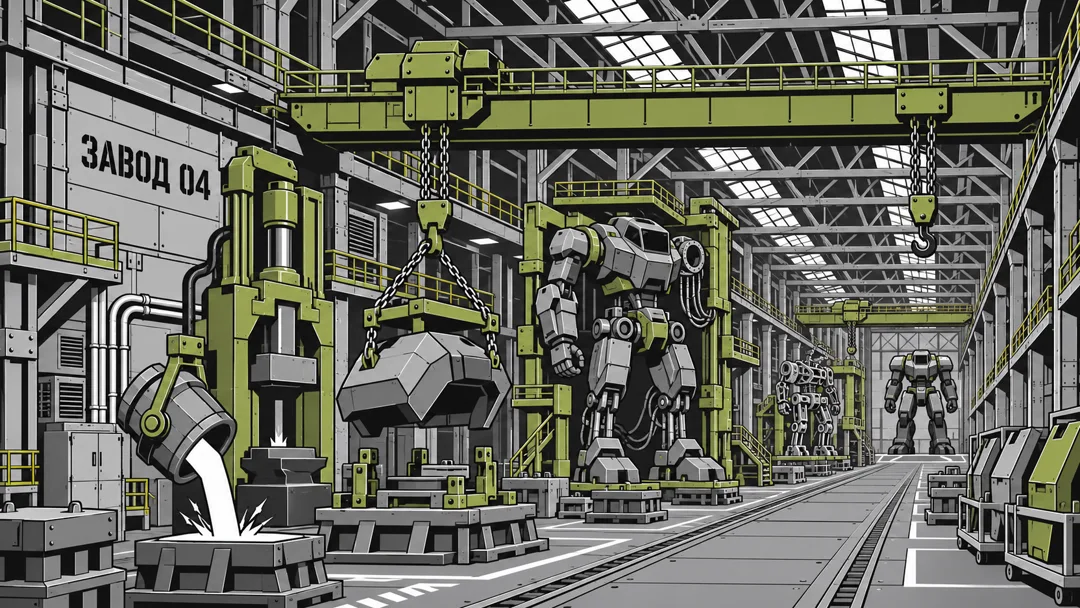
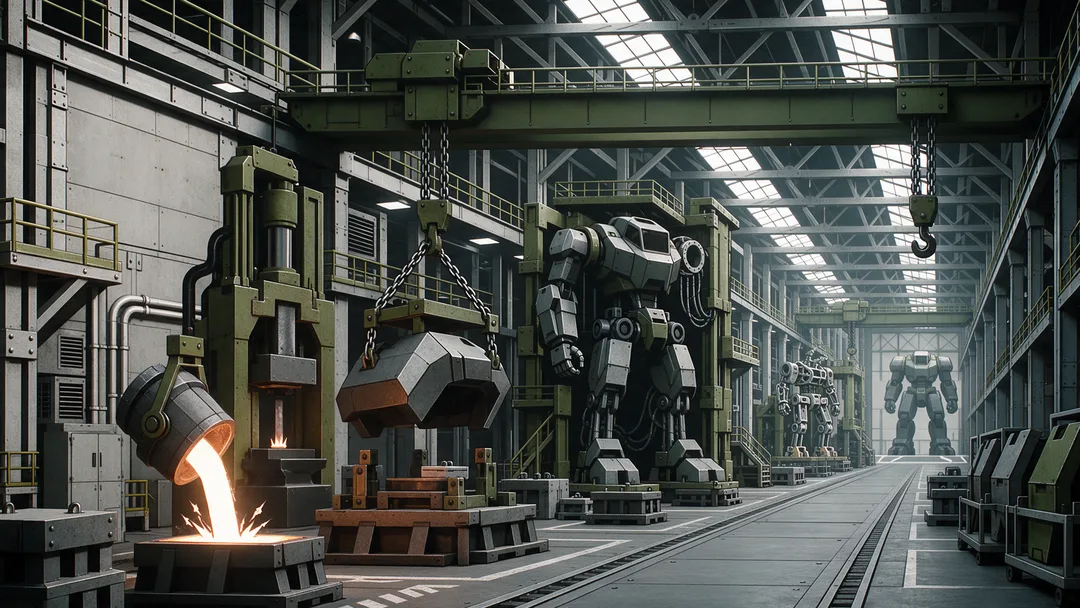
Update the Lore, home and product pictures to live action
27 pictures are replaced with live-action stills from Higgsfield at the
same file names and pixel sizes: the Lore hero, districts, story
chapters and cast portraits (FL4T included), the home page's Lore
teaser, and the photo sets for the Amber-Ring Helmet, Reflective-Seam
Jacket and Yellow-Panel Shell.

Sasha's three pictures (her profile, Proof and B2B) load from their
Higgsfield small copies and are not stored in the repo. Her profile and
tab show only the first face of a four-face strip, cropped so her chin
stays in view at every size. Alt texts on the Lore and home pages
describe the new pictures. L0WK3Y's portrait, the Laced Hooded Coat
photos and the city map are unchanged.

diff --git a/lore.html b/lore.html
@@ -11,7 +11,7 @@
   <meta property="og:description" content="Explore the last city, meet its crews and follow the pirate signal.">
   <meta property="og:image" content="https://arthurdnb.github.io/fu7ure-preview/media/lore/hero-city.webp">
   <link rel="stylesheet" href="styles.css">
-  <link rel="stylesheet" href="lore.css">
+  <link rel="stylesheet" href="lore.css?v=live-cast">
   <script defer src="lore.js"></script>
 </head>
 <body class="lore-page">
@@ -65,7 +65,7 @@
         </figure>
         <div class="place-panels">
           <article id="place-deck" class="place-panel" data-panel data-color="yellow">
-            <img src="media/lore/deck.webp" alt="Yellow-trimmed racing frames line the launch deck above the clouds" width="1080" height="608" loading="lazy" decoding="async">
+            <img src="media/lore/deck.webp" alt="Grey and yellow racing frames parked along the launch deck above the clouds" width="1080" height="608" loading="lazy" decoding="async">
             <div class="place-copy">
               <p class="lore-meta">H4J1ME</p>
               <h3>The Deck</h3>
@@ -74,7 +74,7 @@
             </div>
           </article>
           <article id="place-grid" class="place-panel" data-panel data-color="silver">
-            <img src="media/lore/grid.webp" alt="A clock stands at the far end of a white hall of identical columns" width="1080" height="608" loading="lazy" decoding="async">
+            <img src="media/lore/grid.webp" alt="A single clock at the end of a long dark hall of black columns" width="1080" height="608" loading="lazy" decoding="async">
             <div class="place-copy">
               <p class="lore-meta">8888</p>
               <h3>The Grid</h3>
@@ -83,7 +83,7 @@
             </div>
           </article>
           <article id="place-circuit" class="place-panel" data-panel data-color="amber">
-            <img src="media/lore/circuit.webp" alt="A circular arena with gates, tiered seating and a DJ platform at the centre" width="1080" height="608" loading="lazy" decoding="async">
+            <img src="media/lore/circuit.webp" alt="The round Circuit arena under a glass dome, with gates and a platform at the centre" width="1080" height="608" loading="lazy" decoding="async">
             <div class="place-copy">
               <p class="lore-meta">Shared arena</p>
               <h3>The Circuit</h3>
@@ -92,7 +92,7 @@
             </div>
           </article>
           <article id="place-yard" class="place-panel" data-panel data-color="orange">
-            <img src="media/lore/yard.webp" alt="An orange-marked court under an overpass, ringed by speaker stacks" width="1080" height="608" loading="lazy" decoding="async">
+            <img src="media/lore/yard.webp" alt="The Yard’s empty stage: speaker stacks and orange-marked containers under steel trusses" width="1080" height="608" loading="lazy" decoding="async">
             <div class="place-copy">
               <p class="lore-meta">ROLL3RZ</p>
               <h3>The Yard</h3>
@@ -101,7 +101,7 @@
             </div>
           </article>
           <article id="place-factory" class="place-panel" data-panel data-color="olive">
-            <img src="media/lore/factory.webp" alt="Olive overhead machinery and steel racing frames in Factory 04" width="1080" height="608" loading="lazy" decoding="async">
+            <img src="media/lore/factory.webp" alt="Molten metal pours beside olive machinery and parked racing frames in Factory 04" width="1080" height="608" loading="lazy" decoding="async">
             <div class="place-copy">
               <p class="lore-meta">МОЛОТ</p>
               <h3>Factory 04</h3>
@@ -110,7 +110,7 @@
             </div>
           </article>
           <article id="place-archive" class="place-panel" data-panel data-color="violet">
-            <img src="media/lore/archive.webp" alt="Purple light runs through gothic arches lined with speakers and old machines" width="1080" height="608" loading="lazy" decoding="async">
+            <img src="media/lore/archive.webp" alt="Purple light beams through gothic arches lined with speakers and old machines" width="1080" height="608" loading="lazy" decoding="async">
             <div class="place-copy">
               <p class="lore-meta">R4V3NS</p>
               <h3>The Archive</h3>
@@ -143,7 +143,7 @@
         </header>
         <div class="cast-tabs" data-tabs aria-label="Characters" hidden>
             <button type="button" data-target="cast-r2" data-color="amber"><img src="media/lore/cast-r2.webp" alt="" width="496" height="386" loading="lazy" decoding="async"><span>R2</span></button>
-            <button type="button" data-target="cast-sasha" data-color="olive"><img src="media/lore/cast-sasha.webp" alt="" width="496" height="386" loading="lazy" decoding="async"><span>С4Ш4</span></button>
+            <button type="button" data-target="cast-sasha" data-color="olive"><span class="face-strip" aria-hidden="true"><img src="https://d8j0ntlcm91z4.cloudfront.net/user_3Lx8TF1xeDb8eYoPMa2K0YaqmD4/hf_20261124_012306_e52cd133-d530-4766-a3be-2ca4c582b22d_min.webp" alt="" loading="lazy" decoding="async"></span><span>С4Ш4</span></button>
             <button type="button" data-target="cast-tsubasa" data-color="yellow"><img src="media/lore/cast-tsubasa.webp" alt="" width="496" height="386" loading="lazy" decoding="async"><span>TSUB4S4</span></button>
             <button type="button" data-target="cast-quant" data-color="silver"><img src="media/lore/cast-quant.webp" alt="" width="496" height="386" loading="lazy" decoding="async"><span>QU4NT</span></button>
             <button type="button" data-target="cast-vesper" data-color="violet"><img src="media/lore/cast-vesper.webp" alt="" width="496" height="386" loading="lazy" decoding="async"><span>V3SP3R</span></button>
@@ -151,7 +151,7 @@
             <button type="button" data-target="cast-flat" data-color="silver"><img src="media/lore/cast-flat.webp" alt="" width="496" height="386" loading="lazy" decoding="async"><span>FL4T</span></button>
         </div>
         <article id="cast-r2" class="cast-panel" data-panel data-color="amber">
-          <figure class="cast-picture"><img src="media/lore/cast-r2.webp" alt="R2’s black helmet with two swept antennae and amber headphone rings" width="496" height="386" loading="lazy" decoding="async"></figure>
+          <figure class="cast-picture"><img src="media/lore/cast-r2.webp" alt="R2’s black helmet with swept fins and a ring of amber lights" width="496" height="386" loading="lazy" decoding="async"></figure>
           <div class="cast-copy">
             <img class="maker-mark" src="media/marks/r2-pin-stack-r1.svg" alt="R2" width="210" height="48" loading="lazy">
             <p class="lore-meta">Independent DJ and pilot</p>
@@ -167,7 +167,7 @@
           </div>
         </article>
         <article id="cast-sasha" class="cast-panel" data-panel data-color="olive">
-          <figure class="cast-picture"><img src="media/lore/cast-sasha.webp" alt="Sasha with dark wavy hair and her black and olive MOLOT collar" width="496" height="386" loading="lazy" decoding="async"></figure>
+          <figure class="cast-picture face-strip"><img src="https://d8j0ntlcm91z4.cloudfront.net/user_3Lx8TF1xeDb8eYoPMa2K0YaqmD4/hf_20261124_012306_e52cd133-d530-4766-a3be-2ca4c582b22d_min.webp" alt="Sasha with a silver asymmetric bob and silver eyes" loading="lazy" decoding="async"></figure>
           <div class="cast-copy">
             <img class="maker-mark" src="media/marks/molot-coupler-r1.svg" alt="МОЛОТ" width="210" height="48" loading="lazy">
             <p class="lore-meta">Factory 04 proof-master</p>
@@ -184,7 +184,7 @@
           </div>
         </article>
         <article id="cast-tsubasa" class="cast-panel" data-panel data-color="yellow">
-          <figure class="cast-picture"><img src="media/lore/cast-tsubasa.webp" alt="Tsubasa with a yellow streak in her dark bob and a pilot headset" width="496" height="386" loading="lazy" decoding="async"></figure>
+          <figure class="cast-picture"><img src="media/lore/cast-tsubasa.webp" alt="TSUB4S4 with a yellow streak in her black bob" width="496" height="386" loading="lazy" decoding="async"></figure>
           <div class="cast-copy">
             <img class="maker-mark" src="media/marks/h4j1me-pole-position-r1.svg" alt="H4J1ME" width="210" height="48" loading="lazy">
             <p class="lore-meta">H4J1ME racer · No. 07</p>
@@ -201,7 +201,7 @@
           </div>
         </article>
         <article id="cast-quant" class="cast-panel" data-panel data-color="silver">
-          <figure class="cast-picture"><img src="media/lore/cast-quant.webp" alt="QU4NT with a shaved head, a clear wraparound visor and a black Drawbridge jacket" width="496" height="386" loading="lazy" decoding="async"></figure>
+          <figure class="cast-picture"><img src="media/lore/cast-quant.webp" alt="QU4NT with a shaved head, a clear wraparound visor and a black hooded jacket" width="496" height="386" loading="lazy" decoding="async"></figure>
           <div class="cast-copy">
             <img class="maker-mark" src="media/marks/8888-faction-01-wordmark.svg" alt="8888" width="210" height="48" loading="lazy">
             <p class="lore-meta">Keeper of the city clock</p>
@@ -218,7 +218,7 @@
           </div>
         </article>
         <article id="cast-vesper" class="cast-panel" data-panel data-color="violet">
-          <figure class="cast-picture"><img src="media/lore/cast-vesper.webp" alt="V3SP3R in a black hood, violet goggles and a respirator" width="496" height="386" loading="lazy" decoding="async"></figure>
+          <figure class="cast-picture"><img src="media/lore/cast-vesper.webp" alt="V3SP3R in a black hood, violet round glasses and a black face mask" width="496" height="386" loading="lazy" decoding="async"></figure>
           <div class="cast-copy">
             <img class="maker-mark" src="media/marks/r4v3ns-faction-03-v8-wordmark.svg" alt="R4V3NS" width="210" height="48" loading="lazy">
             <p class="lore-meta">Keeper of The Archive</p>
@@ -252,7 +252,7 @@
           </div>
         </article>
         <article id="cast-flat" class="cast-panel" data-panel data-color="silver">
-          <figure class="cast-picture"><img src="media/lore/cast-flat.webp" alt="Illustration of FL4T in a plain grey uniform holding a noise meter and clipboard" width="496" height="386" loading="lazy" decoding="async"></figure>
+          <figure class="cast-picture"><img src="media/lore/cast-flat.webp" alt="FL4T with side-parted hair, a headset and a grey high-collar uniform" width="496" height="386" loading="lazy" decoding="async"></figure>
           <div class="cast-copy">
             <p class="plain-mark">M0N0</p>
             <p class="lore-meta">M0N0 officer</p>
@@ -287,7 +287,7 @@
         </div>
         <div class="story-main">
           <article id="story-signal" class="story-panel" data-panel>
-            <img src="media/lore/story-signal.webp" alt="R2 broadcasts from a rooftop radio rig in the rain" width="1240" height="698" loading="lazy" decoding="async">
+            <img src="media/lore/story-signal.webp" alt="R2 at a rooftop radio rig in the rain, a black jacket under his hands sending out an amber signal" width="1240" height="698" loading="lazy" decoding="async">
             <div class="story-copy">
               <p class="lore-meta">Teaser <span aria-hidden="true">/</span> R2</p>
               <h3>Signal Found</h3>
@@ -296,7 +296,7 @@
             </div>
           </article>
           <article id="story-start" class="story-panel" data-panel>
-            <img src="media/lore/story-start.webp" alt="TSUB4S4 examines an empty cockpit while FL4T holds a clipboard" width="1240" height="698" loading="lazy" decoding="async">
+            <img src="media/lore/story-start.webp" alt="TSUB4S4 leans into an open cockpit while FL4T gestures to it, clipboard in hand" width="1240" height="698" loading="lazy" decoding="async">
             <div class="story-copy">
               <p class="lore-meta">Chapter 1 <span aria-hidden="true">/</span> H4J1ME · The Deck</p>
               <h3>Start Signal</h3>
@@ -305,7 +305,7 @@
             </div>
           </article>
           <article id="story-four" class="story-panel" data-panel>
-            <img src="media/lore/story-four.webp" alt="QU4NT studies a wall of district clocks in The Grid" width="1240" height="698" loading="lazy" decoding="async">
+            <img src="media/lore/story-four.webp" alt="QU4NT studies a wall of clocks in a white hall" width="1240" height="698" loading="lazy" decoding="async">
             <div class="story-copy">
               <p class="lore-meta">Chapter 2 <span aria-hidden="true">/</span> 8888 · The Grid</p>
               <h3>Four to the Floor</h3>
@@ -314,7 +314,7 @@
             </div>
           </article>
           <article id="story-remembers" class="story-panel" data-panel>
-            <img src="media/lore/story-remembers.webp" alt="V3SP3R plays an old recording under purple light in The Archive" width="1240" height="698" loading="lazy" decoding="async">
+            <img src="media/lore/story-remembers.webp" alt="V3SP3R threads an old tape under purple light while a dancing crowd glows overhead" width="1240" height="698" loading="lazy" decoding="async">
             <div class="story-copy">
               <p class="lore-meta">Chapter 3 <span aria-hidden="true">/</span> R4V3NS · The Archive</p>
               <h3>What the Archive Remembers</h3>
@@ -323,7 +323,7 @@
             </div>
           </article>
           <article id="story-proof" class="story-panel" data-panel>
-            <img src="media/lore/story-proof.webp" alt="Sasha looks at a foundry order held by FL4T" width="1240" height="698" loading="lazy" decoding="async">
+            <img src="https://d8j0ntlcm91z4.cloudfront.net/user_3Lx8TF1xeDb8eYoPMa2K0YaqmD4/hf_20261124_025944_e517b3e3-3a0a-4813-a324-caf2f89fe259_min.webp" alt="Sasha stamps a foundry order handed over by FL4T, with racing frames behind them" width="1240" height="698" loading="lazy" decoding="async">
             <div class="story-copy">
               <p class="lore-meta">Chapter 4 <span aria-hidden="true">/</span> МОЛОТ · Factory 04</p>
               <h3>Proof</h3>
@@ -332,7 +332,7 @@
             </div>
           </article>
           <article id="story-licence" class="story-panel" data-panel>
-            <img src="media/lore/story-licence.webp" alt="L0WK3Y looks over the licence at the pirate station" width="1240" height="698" loading="lazy" decoding="async">
+            <img src="media/lore/story-licence.webp" alt="L0WK3Y signs the licence for FL4T at the pirate station in the rain" width="1240" height="698" loading="lazy" decoding="async">
             <div class="story-copy">
               <p class="lore-meta">Chapter 5 <span aria-hidden="true">/</span> ROLL3RZ · The Yard</p>
               <h3>Licence</h3>
@@ -341,7 +341,7 @@
             </div>
           </article>
           <article id="story-b2b" class="story-panel" data-panel>
-            <img src="media/lore/story-b2b.webp" alt="The DJs and all five crowds come together in The Circuit" width="1240" height="698" loading="lazy" decoding="async">
+            <img src="https://d8j0ntlcm91z4.cloudfront.net/user_3Lx8TF1xeDb8eYoPMa2K0YaqmD4/hf_20261124_025756_0ee2bb1f-e8ed-4d97-8191-7cae84321b21_min.webp" alt="QU4NT, Sasha, R2, TSUB4S4, V3SP3R and L0WK3Y play back to back above a packed Circuit crowd" width="1240" height="698" loading="lazy" decoding="async">
             <div class="story-copy">
               <p class="lore-meta">Chapter 6 <span aria-hidden="true">/</span> M0N0 · The Circuit</p>
               <h3>B2B</h3>

diff --git a/lore.css b/lore.css
@@ -140,6 +140,14 @@
 .cast-panel { display: grid; grid-template-columns: minmax(0, .95fr) minmax(0, 1.05fr); border-top: 2px solid var(--tone); }
 .cast-picture { width: 100%; height: 100%; min-height: 355px; position: relative; background: #363931; }
 .cast-picture img { width: 100%; height: 100%; max-height: 600px; object-fit: cover; object-position: center 33%; }
+/* Sasha's portrait loads from Higgsfield as a strip of four faces; only the first (front) face shows.
+   The strip is scaled so one face fills the box width, and placed so her chin sits near the bottom edge. */
+.face-strip { position: relative; overflow: hidden; container-type: size; }
+.face-strip > img, .cast-tabs button .face-strip > img, .cast-picture.face-strip > img {
+  position: absolute; left: 0; width: 400cqw; max-width: none; height: auto; max-height: none; aspect-ratio: auto;
+  object-fit: fill; top: clamp(calc(100cqh - 225.9cqw), calc(100cqh - 102.9cqw), 0px);
+}
+.cast-tabs button .face-strip { display: block; padding: 0; aspect-ratio: 1.55; }
 .cast-copy { padding: clamp(20px, 3.4vw, 48px); }
 .cast-copy h3 { margin: 4px 0 5px; }
 .cast-copy .cast-reading { font: 13px/1.5 var(--mono); color: var(--ink); margin-bottom: 14px; }
@@ -224,6 +232,7 @@
   .map-return { display: inline-flex; margin-top: 14px; }
   .cast-tabs { grid-auto-columns: 104px; }
   .cast-picture img { aspect-ratio: 1.33; max-height: 420px; height: auto; }
+  .cast-picture.face-strip { aspect-ratio: 1.33; height: auto; min-height: 0; max-height: 420px; }
   .story-tabs {
     display: flex; overflow-x: auto; scrollbar-color: #535744 transparent;
   }

diff --git a/index.html b/index.html
@@ -577,7 +577,7 @@
           <p>Future is a city built on sound. Explore the districts, meet the characters behind the labels, and follow R2’s pirate signal from the rooftops to The Circuit.</p>
           <a class="editorial-link" href="lore.html">Explore the lore <span aria-hidden="true">↗</span></a>
         </div>
-        <img src="media/fu7ure-city.webp" alt="Concept art of FU7URE’s futuristic city skyline" loading="lazy">
+        <img src="media/fu7ure-city.webp" alt="The tower city of Future rising out of low cloud" loading="lazy">
       </div>
     </section>
 
